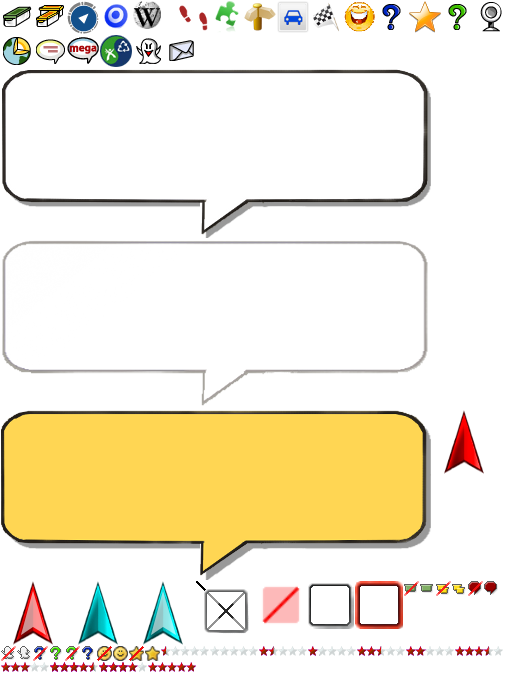
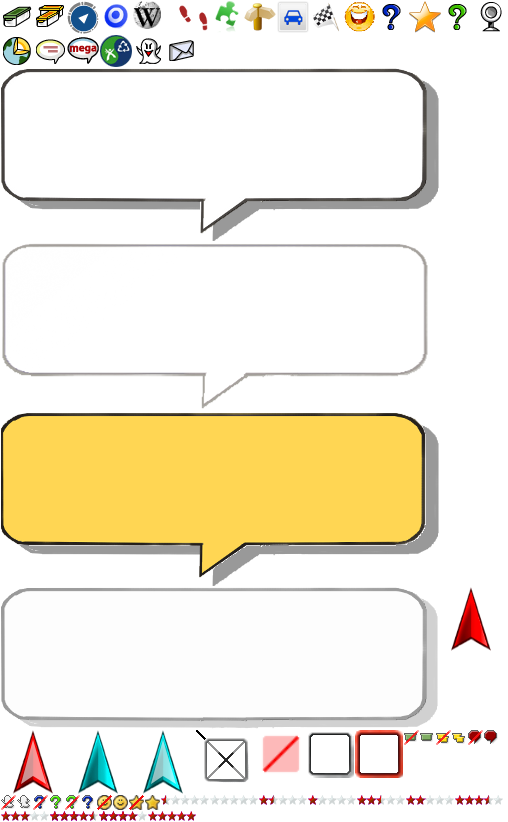
+ add info panel background on new map + add compass at info panel (Rotation not yet in the centre.)
Last commit for this year. I wish a happy new year to all ;)

git-svn-id: svn://svn.code.sf.net/p/droidcachebox/code/trunk@630 5890f383-b09f-485f-8f59-22bc967d67fd

diff --git a/Android_GUI/src/de/cachebox_test/Map/MapViewGlListener.java b/Android_GUI/src/de/cachebox_test/Map/MapViewGlListener.java
@@ -38,6 +38,7 @@ import com.badlogic.gdx.math.Matrix4;
 import com.badlogic.gdx.math.Vector2;
 
 import de.cachebox_test.Global;
+import de.cachebox_test.UnitFormatter;
 import de.cachebox_test.main;
 import de.cachebox_test.Components.CacheDraw;
 import de.cachebox_test.Events.PositionEvent;
@@ -312,6 +313,8 @@ public class MapViewGlListener implements ApplicationListener, PositionEvent
 		renderPositionMarker();
 		Bubble.render(xSizeUnder, ySizeUnder);
 
+		renderInfoPanel();
+
 		str = "fps: " + Gdx.graphics.getFramesPerSecond();
 		font.draw(batch, str, 100, 100);
 		str = String.valueOf(zoom) + " - camera.zoom: " + Math.round(camera.zoom * 100) / 100;
@@ -327,6 +330,63 @@ public class MapViewGlListener implements ApplicationListener, PositionEvent
 		font.draw(batch, str, 100, 20);
 
 		batch.end();
+
+	}
+
+	public static final Vector2 infoPos = new Vector2(10, 420);
+	public static final float infoWidth = 360;
+	public static final float infoHeight = 100;
+
+	public static final float compassWidth = infoHeight - 20;
+	public static final float compassHeight = infoHeight - 20;
+
+	private void renderInfoPanel()
+	{
+		// draw background
+		Sprite sprite = SpriteCache.InfoBack;
+		sprite.setPosition(infoPos.x, infoPos.y);
+		sprite.setSize(infoWidth, infoHeight);
+		sprite.draw(MapViewGlListener.batch);
+
+		// Position ist entweder GPS-Position oder die des Markers, wenn
+		// dieser gesetzt wurde.
+		Coordinate position = null;
+		if ((GlobalCore.Marker != null) && (GlobalCore.Marker.Valid)) position = GlobalCore.Marker;
+		else if (GlobalCore.LastValidPosition != null) position = GlobalCore.LastValidPosition;
+		else
+			position = new Coordinate();
+
+		// Gps empfang ?
+		if (GlobalCore.SelectedCache() != null && position.Valid)
+		{
+			// Distanz einzeichnen
+			float distance = 0;
+
+			if (GlobalCore.SelectedWaypoint() == null) distance = position.Distance(GlobalCore.SelectedCache().Pos);
+			else
+				distance = position.Distance(GlobalCore.SelectedWaypoint().Pos);
+
+			String text = UnitFormatter.DistanceString(distance);
+			// canvas.drawText(text, leftString, bottom - 10, paint);
+
+			// Kompassnadel zeichnen
+			if (Global.Locator != null)
+			{
+				Coordinate cache = (GlobalCore.SelectedWaypoint() != null) ? GlobalCore.SelectedWaypoint().Pos
+						: GlobalCore.SelectedCache().Pos;
+				double bearing = Coordinate.Bearing(position.Latitude, position.Longitude, cache.Latitude, cache.Longitude);
+				double relativeBearing = bearing - Global.Locator.getHeading();
+				// double relativeBearingRad = relativeBearing * Math.PI / 180.0;
+
+				// draw compass
+				Sprite compass = SpriteCache.MapArrows.get(0);
+				compass.setPosition(infoPos.x + 15, infoPos.y + 30);
+				compass.setSize(compassWidth, compassHeight);
+				compass.setRotation((float) relativeBearing);
+				compass.draw(MapViewGlListener.batch);
+
+			}
+		}
 
 	}
 

diff --git a/Android_GUI/src/de/cachebox_test/Map/SpriteCache.java b/Android_GUI/src/de/cachebox_test/Map/SpriteCache.java
@@ -19,6 +19,7 @@ public class SpriteCache
 	public static ArrayList<Sprite> MapArrows = null;
 	public static ArrayList<Sprite> MapStars = null;
 	public static ArrayList<Sprite> Bubble = null;
+	public static Sprite InfoBack = null;
 
 	/**
 	 * Load the Sprites from recorce
@@ -99,6 +100,8 @@ public class SpriteCache
 		Bubble.add(atlas.createSprite("Bubble"));
 		Bubble.add(atlas.createSprite("Bubble_selected"));
 		Bubble.add(atlas.createSprite("BubbleOverlay"));
+
+		InfoBack = atlas.createSprite("InfoPanelBack");
 
 	}
 

diff --git a/Android_GUI/src/de/cachebox_test/Global.java b/Android_GUI/src/de/cachebox_test/Global.java
@@ -38,7 +38,7 @@ import de.cachebox_test.Ui.Sizes;
 
 public class Global
 {
-	public static final int CurrentRevision = 626;
+	public static final int CurrentRevision = 630;
 	public static final String CurrentVersion = "0.5.";
 	public static final String VersionPrefix = "Test";
 	public static final int LatestDatabaseChange = 1016;
